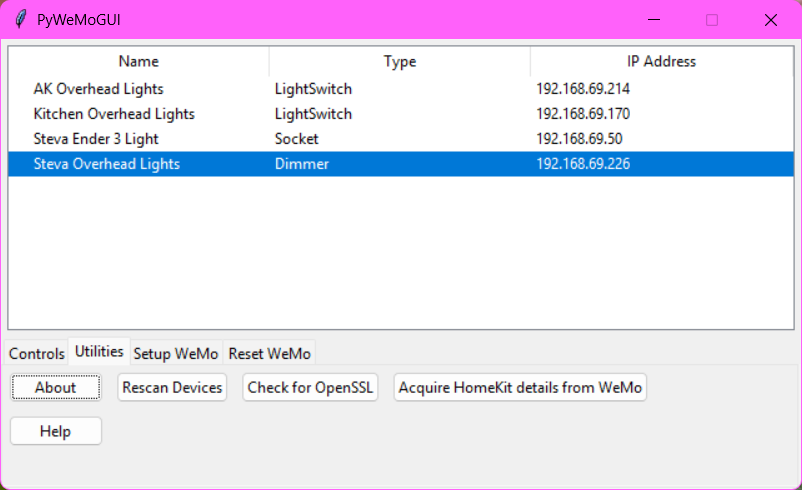
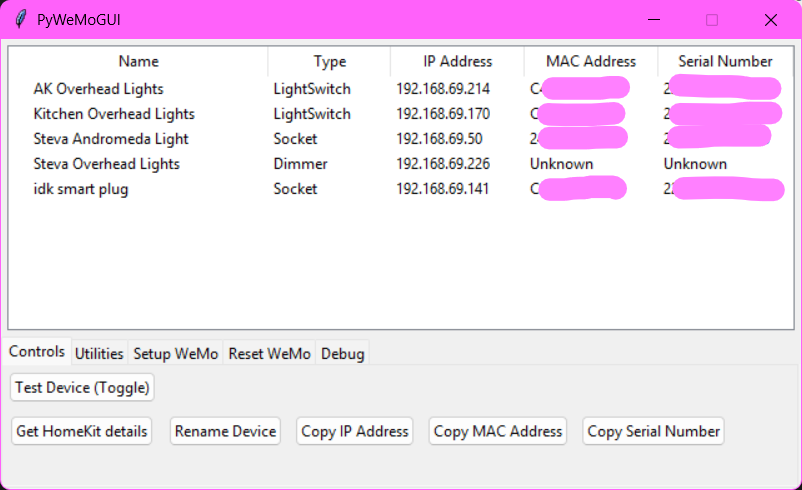
Reorganize the README, correct some things and update the image

diff --git a/README.md b/README.md
@@ -5,9 +5,11 @@ A simple GUI that lets you manage your Belkin WeMo devices.
 PyWeMoGUI lets you control, setup*, and reset any supported Belkin WeMo devices over the local network. This is useful, for example, to get your WeMos onto your home Wi-Fi network in order to use them with Home Assistant. It also supports acquiring HomeKit setup codes from compatible WeMos, in the case that the WeMo's own HomeKit QR code was lost/damaged/etc.\
 <sub>* Requires a computer with Wi-Fi</sub>\
 <br>
-PyWeMoGUI does not require an internet connection to get your WeMos up and running, and will continue to work after Belkin shuts down the WeMo online services and app.
+PyWeMoGUI does not require an internet connection to get your WeMos up and running thanks to the [pywemo](https://github.com/pywemo/pywemo) library, and will continue to work after Belkin shuts down the WeMo online services and app.
 
-This README and project is not final, it will improve with time but I wanted to get this project out with the upcoming WeMo server shutdown.
+You can download easy-to-run binaries of PyWeMoGUI on the [Releases](https://github.com/ThatStella7922/PyWeMoGUI/releases) page, currently they are only available for Windows but macOS binaries are planned too.
+
+This README and project are not final, it will improve with time but I wanted to get this project out with the upcoming WeMo server shutdown.
 
 ### Requirements
 - Computer with Wi-Fi
@@ -15,53 +17,41 @@ This README and project is not final, it will improve with time but I wanted to 
 - Optional: OpenSSL installed and usable as `openssl` from the commandline
   - Allows setting up WeMos with password protected Wi-Fi networks
   - PyWeMoGUI's utilities tab lets you check your OpenSSL setup
+  - Should be pre-installed on macOS and Linux
 
-If running manual setup:
-- A relatively recent Python (probably atleast 3.8)
+[For development](#development), with manual setup:
+- Python 3.10 or newer
   - Pip & Tkinter must be supported
 
-## Manual setup
-> [!NOTE]  
-> If you do not want to manually set up for running locally, there are binaries on the [Releases](https://github.com/ThatStella7922/PyWeMoGUI/releases) page.
-
-- Download the repo as a zip file, or clone it with `git clone`. If you download a zip, extract it to a folder.
-- Create a venv if you want to keep this self-contained
-    - `python3 -m venv venv` to create it
-    - `venv\scripts\activate` to enter it
-- Install pywemo - pip should install its dependencies (requests, ifaddr, lxml, urllib3)
-    - `pip3 install pywemo`
-- Optional: Install OpenSSL and make sure it's usable as `openssl` from the commandline. On Windows this might require editing your PATH.
-  - PyWeMoGUI's utilities tab lets you check your OpenSSL setup
-
-### "Roadmap"
-- [ ] Refactor most device-related functions for more robust exception handling
-- [ ] QR code generation for HomeKit setup codes (WeMos can return an `X-HM://` URL for setup)
-- [ ] Renaming devices
-- [ ] Device specific controls such as dimmer brightness
-- [ ] Device specific configuration such as dimmer brightness *range*
-
-## Usage
-If you set up for running locally with the 'Manual setup' instructions, run python: `python3 main.py`.\
-If you downloaded the binary from the [Releases](https://github.com/ThatStella7922/PyWeMoGUI/releases) then just run it like you would any other executable.
+## Using PyWeMoGUI
+If you set up for running locally with [the development instructions](#development), see those instructions first.\
+If you downloaded the binary from the [Releases](https://github.com/ThatStella7922/PyWeMoGUI/releases) then just run it like you would any other binary.
 
 After a few seconds the main window should open and say "Autodiscovery in progress" in the list.
 
 <img width=500 src=images/mainwindow.png>
 
-After autodiscovery completes, any WeMos on your network will show up in the list. It'll show the name of the device, the type, and its IP address. You can click on a device in the list to select it.
+After autodiscovery completes, any WeMos on your network will show up in the list. It'll show the name of the device, the type, the IP address, MAC address and serial number. You can click on a device in the list to select it.
+
+You can right click inside of the list for quick actions, or you can use the buttons in the tabs below.
 
 There are some tabs:
-- Controls lets you test a device by toggling its state (useful for lights)
+- Controls lets you:
+  - Test a device by toggling it on/off
+  - View a device's HomeKit details so you can add it to HomeKit
+  - Change a device's name
+  - Copy a device's IP address, MAC address or serial number
 - Utilities lets you rescan devices, check if PyWeMoGUI can access OpenSSL, and links to this page
 - Setup WeMo contains everything required to setup a WeMo that has been reset, more on this later
 - Reset WeMo lets you reset a WeMo's personalized info, Wi-Fi settings or even fully factory reset it.
+- Debug is just for testing purposes and will have things inside that can appear nonsensical or even broken.
 
 ### Setting up a WeMo
-To set up a WeMo, it has to be factory reset - or at the very least have had its Wi-Fi settings reset. You can reset it with PyWeMoGUI or via the WeMo itself, usually with some button combination. 
+To set up a WeMo, it has to be factory reset - or at the very least have had its Wi-Fi settings reset. You can reset it with PyWeMoGUI or via the WeMo itself, see the section below.
 
 Once you are sure the WeMo is reset:
 1. Plug it in/turn it on and wait for it to start up
-2. Search for a WeMo Wi-Fi network nearby, something like "Wemo.Dim2G"
+2. Search for a WeMo Wi-Fi network nearby, something like "Wemo.Dim2G.295"
 3. Connect to the WeMo's network, it should have no password
 4. Open PyWeMoGUI or rescan devices if it's already open
 5. You should see a single device in the table with the factory name of your device. For example a Dimmer will be named "Wemo Dimmer" in the list. Select it.
@@ -69,12 +59,47 @@ Once you are sure the WeMo is reset:
 > [!NOTE]  
 > Remember that you need OpenSSL usable from the commandline if you want to connect the WeMo to a password-protected network!
 7. If all goes well, your WeMo should reboot a few seconds later to apply its new settings.
-8. After about a minute, it should be on your Wi-Fi network and you should be able to rescan for devices to see your Wemo!
+8. After about a minute, it should be on your Wi-Fi network. You can then re-connect to your home Wi-Fi network and rescan for devices to see your Wemo!
 
 ### Resetting a WeMo
 Select the WeMo you want to reset in the list, click the appropriate button for the reset you want to perform, then click Yes in the confirmation box. 
 
+Resetting the WeMo via its hardware controls also works great.
+
 The WeMo will restart after a few seconds to clear its settings. After about a minute, it should start broadcasting its Wi-Fi network.
 
+## Development
+### Manual setup
+> [!NOTE]  
+> If you do not want to develop PyWeMoGUI or manually set up for running locally, there are binaries on the [Releases](https://github.com/ThatStella7922/PyWeMoGUI/releases) page.
+
+- Clone the repo with git:\
+`git clone https://github.com/thatstella7922/pywemogui`
+- Create a venv if you want to keep this self-contained
+    - `python3 -m venv venv` to create it
+    - `venv\scripts\activate` to enter it
+- Install pywemo - pip should install its dependencies (requests, ifaddr, lxml, urllib3)
+    - `pip3 install pywemo`
+- Optional: Install OpenSSL and make sure it's usable as `openssl` from the commandline. On Windows this might require editing your PATH.
+  - PyWeMoGUI's utilities tab lets you check your OpenSSL setup
+  - Should be pre-installed on macOS and Linux
+
+You can now run PyWeMoGUI. If you set up pywemo inside a venv, make sure to activate it if you haven't already and then run `python3 main.py`. Otherwise, don't worry about activation and simply run the with the same command.
+
+Once you see the main window, you can refer back to the [usage instructions](#using-pywemogui) to use the app.
+
+### Building
+Since PyWeMoGUI is written in Python there is no real build process. You can run it as-is. The `build.py` file is mainly a convenience script to me to take some of the tedium out of the binary packaging process.
+
+### "Roadmap"
+- [ ] Refactor most device-related functions for more robust exception handling
+- [ ] QR code generation for HomeKit setup codes (WeMos can return an `X-HM://` URL for setup)
+- [x] Renaming devices
+- [ ] Device specific controls such as dimmer brightness
+- [ ] Device specific configuration such as dimmer brightness *range*
+
+### Contributing
+I am not the best programmer by any stretch of the imagination so I really appreciate any help. Please fork & pull request if you have any code contributions, and if not, I also appreciate well-written issue reports. Both help and can make me aware of things that need improvement.
+
 ## Attribution and license
-All rights are **not** reserved. https://github.com/pywemo/pywemo and https://github.com/iancmcc/ouimeaux are not my code and those belong to their respective authors. The PyWeMoGUI code is licensed under the GPLv3.
+All rights are **not** reserved. https://github.com/pywemo/pywemo and https://github.com/iancmcc/ouimeaux are not my code and those belong to their respective authors. PyWeMoGUI is not endorsed by the pywemo or ouimeaux projects in any way. The PyWeMoGUI code is licensed under the GPLv3.
